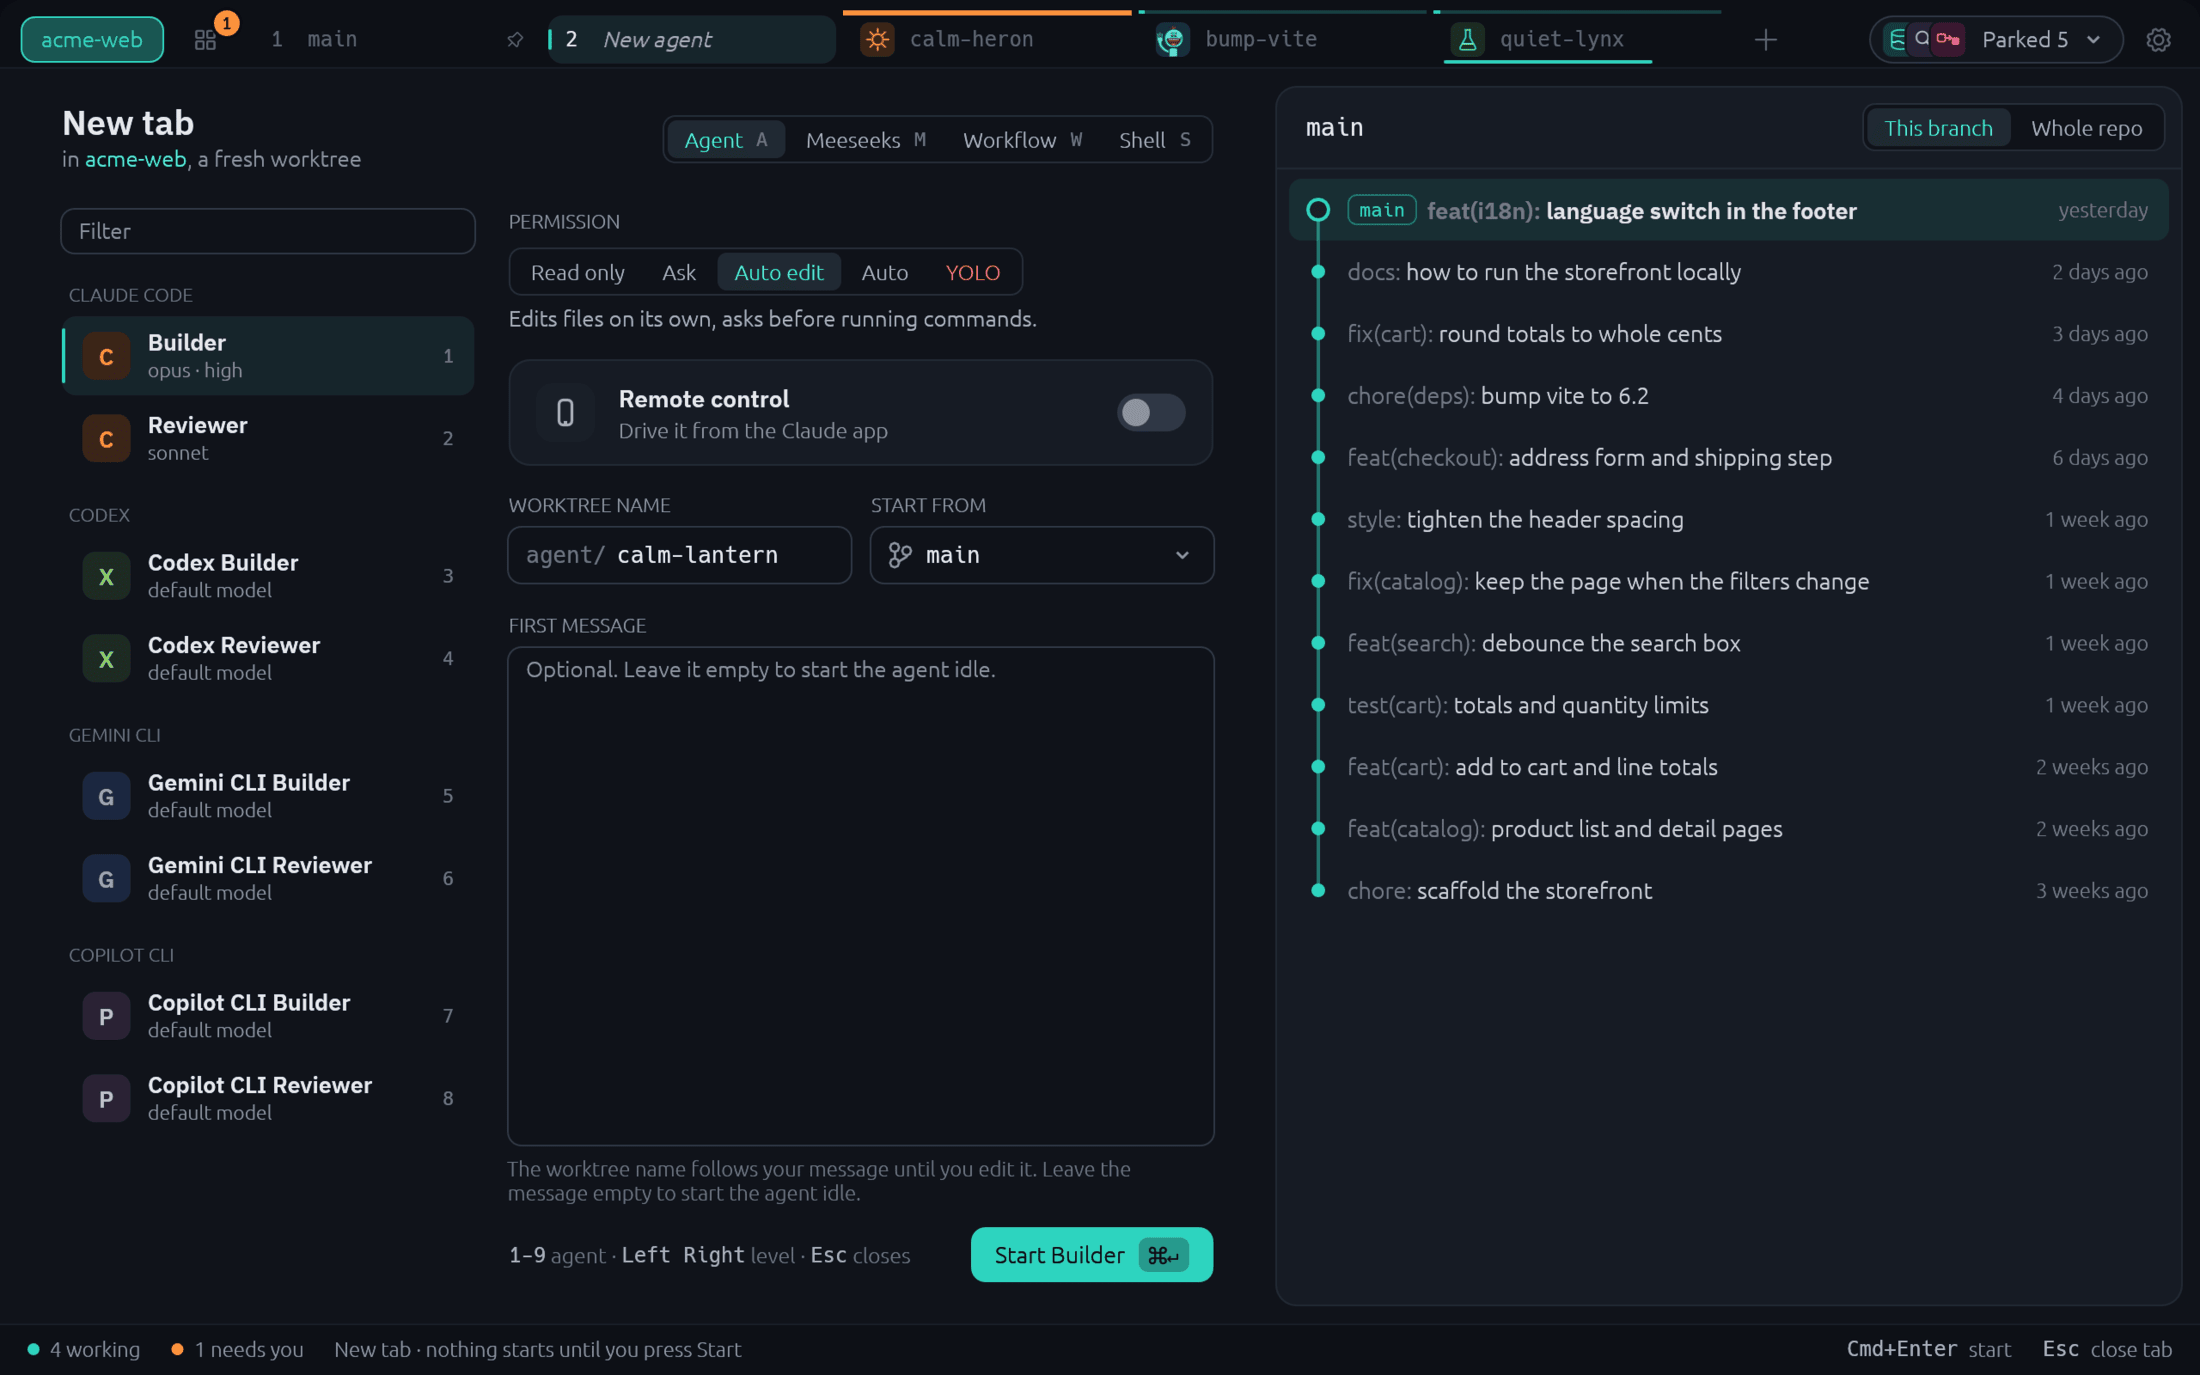
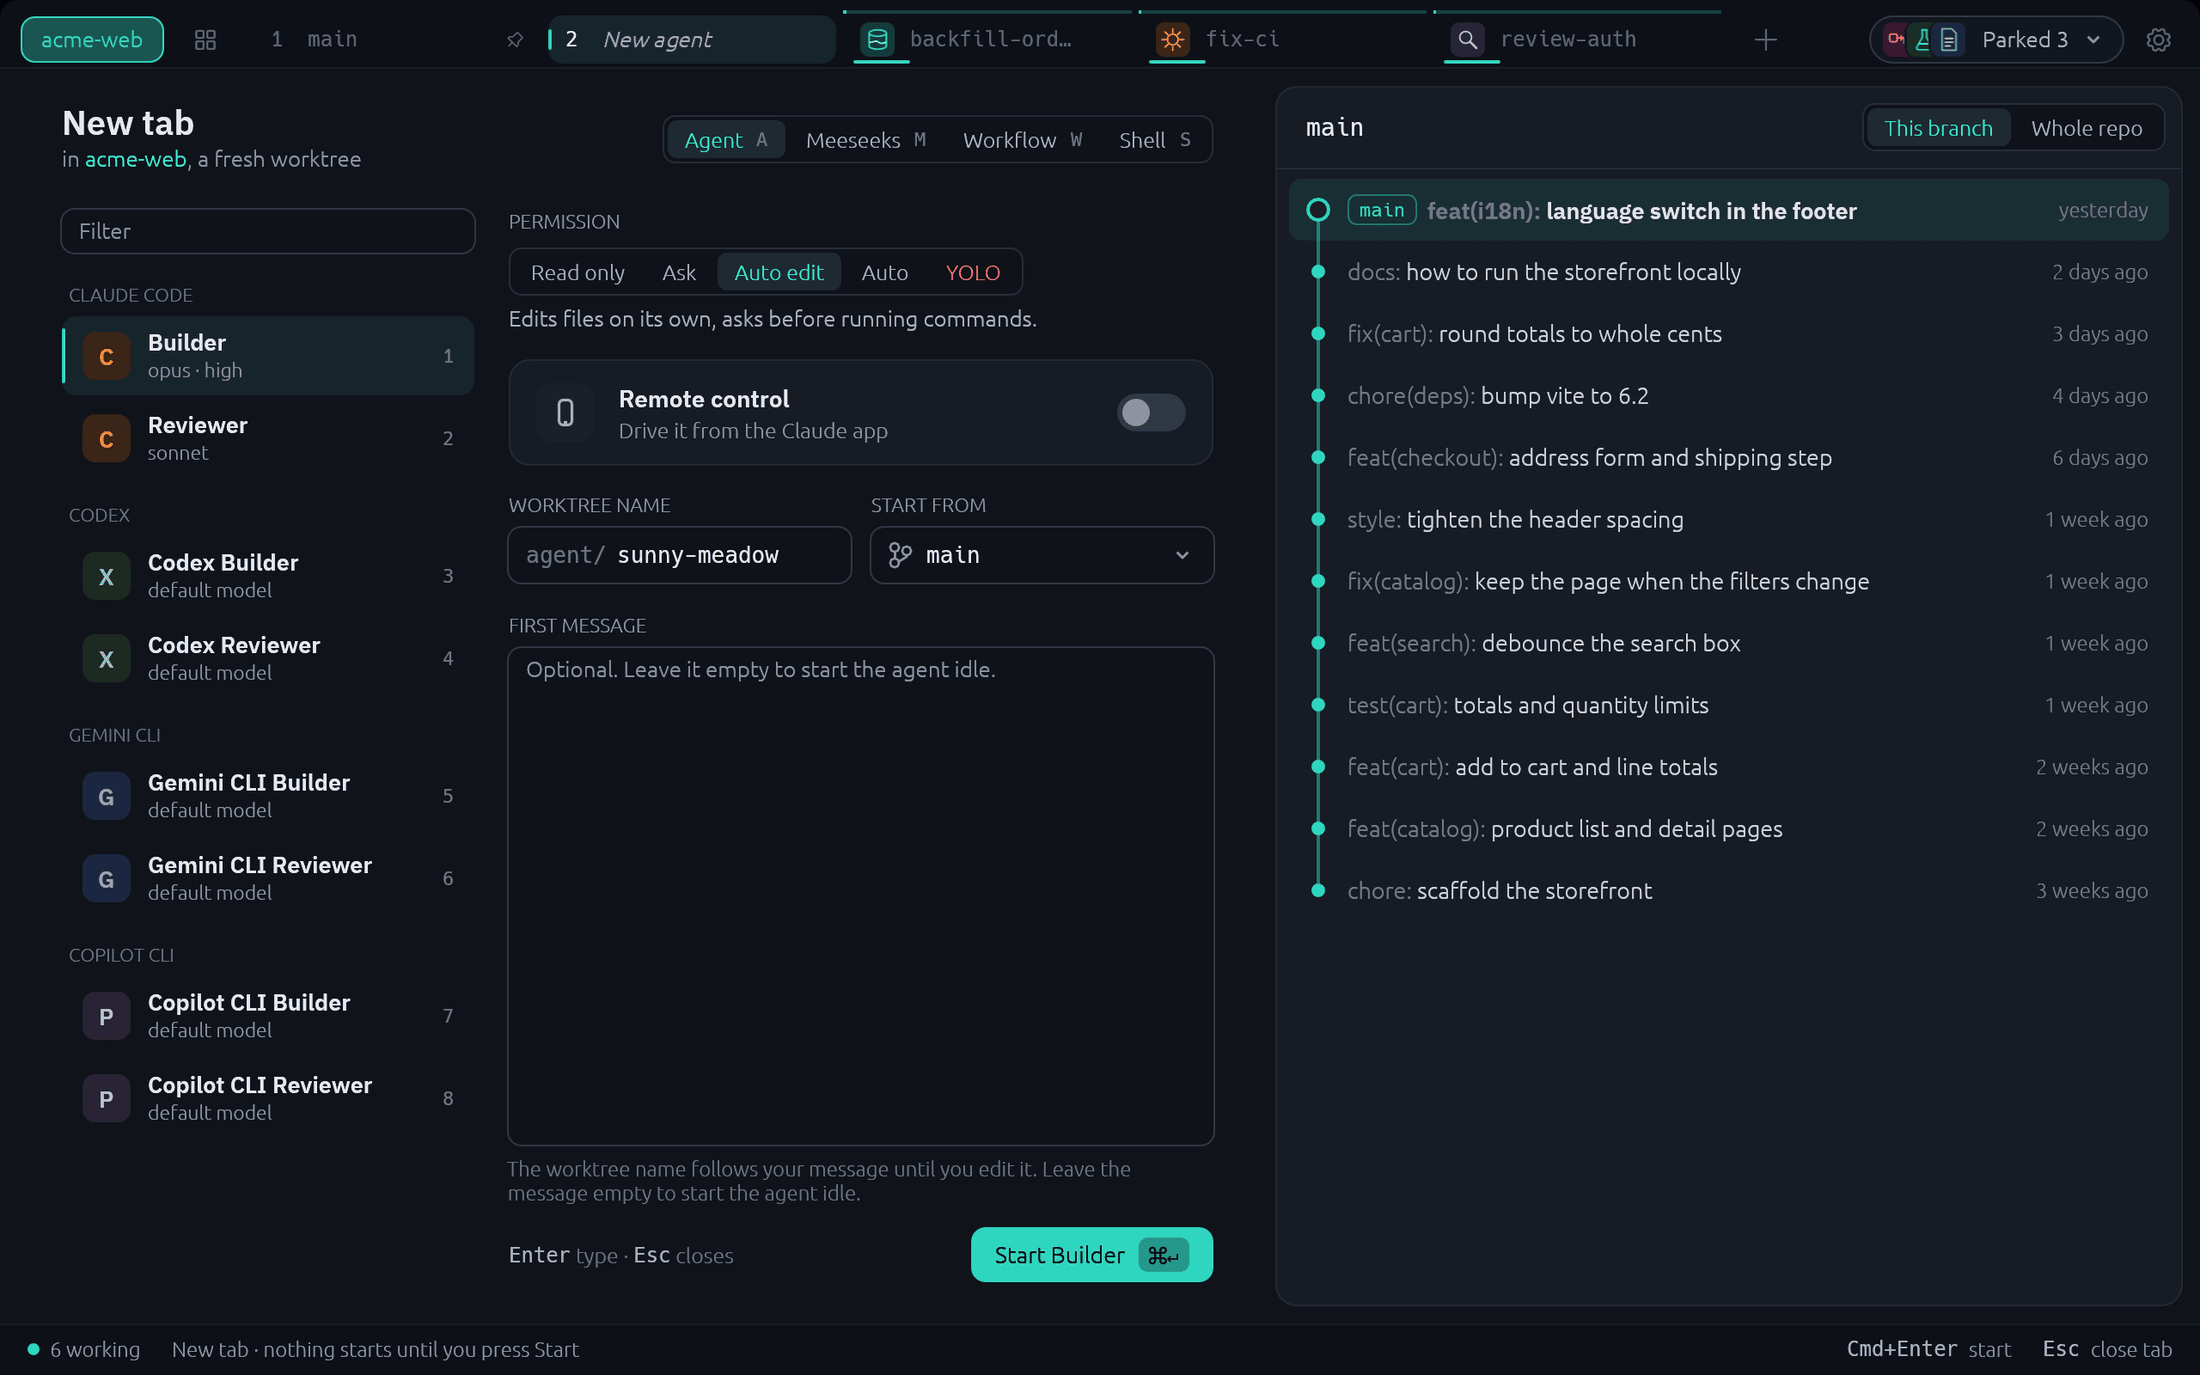
chore: v0.1.17
Ships #92 to #97. Retook the new-tab site shot for the form's Enter type
hint from a throwaway acme-web repo and home (PSNR 45.5 dB, 140 kB to 170 kB).

diff --git a/site/index.html b/site/index.html
@@ -47,7 +47,7 @@
 
 <nav><div class="wrap">
   <a class="brand" href="#top"><img src="icon.svg" alt="" width="30" height="30">tidewatch</a>
-  <span class="badge">v0.1.16</span>
+  <span class="badge">v0.1.17</span>
   <div class="navlinks">
     <a href="#features">Features</a>
     <a href="#install">Install</a>
@@ -57,7 +57,7 @@
 
 <header class="hero" id="top"><div class="wrap">
   <img class="mascot" src="mascot/mascot-hero-animated.svg" width="400" height="440" alt="Tidewatch's mascot, a shoggoth in a smiley mask">
-  <a class="pill" href="https://github.com/Hobo-Ware/tidewatch/releases/latest"><b>New</b> v0.1.16: Meeseeks always run in YOLO, and agents may push their own branch.</a>
+  <a class="pill" href="https://github.com/Hobo-Ware/tidewatch/releases/latest"><b>New</b> v0.1.17: decision cards, outbound guards, a done check and worktree setup.</a>
   <h1>AI agents side by side,<br><span class="teal">one worktree each.</span></h1>
   <p class="lede">Tidewatch is a desktop app for macOS and Linux that runs AI coding agents in one window per git repo. Every tab is its own git worktree, a separate checkout on its own branch, so several agents can work on the same repo without touching each other's files. You watch them, read what they did, comment on their diffs and decide what ships.</p>
   <div class="install"><span class="p">$</span><span class="txt">brew install hobo-ware/tap/tidewatch</span><button class="copy" type="button" data-copy="brew install hobo-ware/tap/tidewatch">Copy</button></div>

diff --git a/LEDGER.md b/LEDGER.md
@@ -4,13 +4,14 @@ A running log of what got done, newest first. The plan lives in [PLAN.md](PLAN.m
 
 ## Status
 
-- **Current milestone:** v0.1.16: Meeseeks always run in YOLO with only the agent CLI to pick, and every agent may push its own branch, force included.
-- **Done:** Phases 0 to 10; v0.1.0 to v0.1.16 released (Homebrew cask, Linux tarball and AppImage); the K mark identity; the showcase page.
+- **Current milestone:** v0.1.17: plain-English decision cards with Go with your picks, outbound text guards and a comment guard, the done check, the worktree setup recipe with merged-tab cleanup, and a keyboard-only new tab form.
+- **Done:** Phases 0 to 10; v0.1.0 to v0.1.17 released (Homebrew cask, Linux tarball and AppImage); the K mark identity; the showcase page.
 - **Also:** six habit workflows are built in, and Build workflow from this session (palette; the agent proposes a workflow that opens as an unsaved draft), 2026-10-16. Restart to update keeps every shell and agent running (live handoff, 2026-10-15). The receiving side of stdusk's "Move tabs to Tidewatch" is built (#49).
 - **Next:** the diff widgets go teal (the graph already does on the side layout); commit messages that truncate early in the narrow tree; the divider position saved between runs; the site hero screenshot; the owner's live checks; Linux desktop runs.
 
 ## 2026-10-23
 
+- **v0.1.17.** Ships #92 (keyboard-only new tab form), #93 (decision cards, Go with your picks), #94 (outbound guards), #95 (worktree setup recipe, merged-tab cleanup), #96 (done check) and #97 (comment guard). The site's new-tab shot was retaken for the form's `Enter type` hint (2200x1375, 140 kB to 170 kB, PSNR 45.5 dB, throwaway acme-web repo and home); the other site shots show nothing these PRs changed.
 - **Comment guard (branch `comment-guard`).** The owner: "build 1 to 5 :P" (item 5 of the skill sweep). A Guards rule `comments` (on by default, per repo) with a classifier, a branch-diff sweep and the hooks described in PLAN.md's Deviations log; a chip `Comment guard: N flags` on the agent tab with the lines in a popover and an off switch per tab. Claude Code tabs get PostToolUse and Stop command hooks; the other CLIs are swept when their turn ends and told through the idle-only paste.
   Checked: table tests per syntax (Rust, TypeScript and JavaScript, Python, Ruby, shell, SQL), the diff sweep on a real temp branch, the hook output shape (`tests/guard_comments.rs` runs the real binary the way Claude Code runs a command hook), the host's sweep and paste, the strip headless, and a `TIDEWATCH_SCREENSHOT` run with `TIDEWATCH_FAKE_COMMENTS=1`. Not checked: a live Claude Code turn through the hooks (a throwaway home has no login), Codex, Gemini and Copilot, Linux.
 
